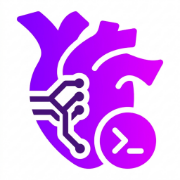
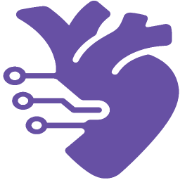
Updates

diff --git a/index.html b/index.html
@@ -7,7 +7,7 @@
     <link rel="icon" type="image/png" sizes="16x16" href="/favicon-16x16.png" />
     <meta name="viewport" content="width=device-width, initial-scale=1.0" />
     <title>فؤاد المهاوش</title>
-    <script type="module" crossorigin src="/assets/index-C1ZYpNLj.js"></script>
+    <script type="module" crossorigin src="/assets/index-DyzC2bNz.js"></script>
     <link rel="stylesheet" crossorigin href="/assets/index-CbxHaRg6.css">
   <link rel="manifest" href="/manifest.webmanifest"><script id="vite-plugin-pwa:inline-sw">if('serviceWorker' in navigator) {window.addEventListener('load', () => {navigator.serviceWorker.register('/sw.js', { scope: '/' })})}</script></head>
   <body>

diff --git a/sw.js b/sw.js
@@ -1,1 +1,1 @@
-if(!self.define){let e,i={};const n=(n,s)=>(n=new URL(n+".js",s).href,i[n]||new Promise(i=>{if("document"in self){const e=document.createElement("script");e.src=n,e.onload=i,document.head.appendChild(e)}else e=n,importScripts(n),i()}).then(()=>{let e=i[n];if(!e)throw new Error(`Module ${n} didn’t register its module`);return e}));self.define=(s,r)=>{const o=e||("document"in self?document.currentScript.src:"")||location.href;if(i[o])return;let c={};const a=e=>n(e,o),f={module:{uri:o},exports:c,require:a};i[o]=Promise.all(s.map(e=>f[e]||a(e))).then(e=>(r(...e),c))}}define(["./workbox-2fbc6a65"],function(e){"use strict";self.addEventListener("message",e=>{e.data&&"SKIP_WAITING"===e.data.type&&self.skipWaiting()}),e.precacheAndRoute([{url:"pwa-512x512.png",revision:"dc95552e0f92c601608c61b02bc5f0ac"},{url:"pwa-192x192.png",revision:"418be86621dbfbe121ea3f1de11c4434"},{url:"index.html",revision:"6fd8da66b99c5f2fbf0524899e80b41b"},{url:"icons.svg",revision:"21c7473c592c67dc87223d49892c8f0a"},{url:"favicon.svg",revision:"7e840862161341271697daa99a40d76b"},{url:"favicon.ico",revision:"9f6306599f5b180db2f370fb0aea4c3e"},{url:"favicon-32x32.png",revision:"cd0514e104fee269a9b7fe3784601780"},{url:"favicon-16x16.png",revision:"4eb0a3ba2186a4eb6b4872818153e60e"},{url:"apple-touch-icon.png",revision:"9149131d0ca9857ca6f90d77209da4a1"},{url:"assets/workbox-window.prod.es5-Bd17z0YL.js",revision:null},{url:"assets/index-CbxHaRg6.css",revision:null},{url:"assets/index-C1ZYpNLj.js",revision:null},{url:"apple-touch-icon.png",revision:"9149131d0ca9857ca6f90d77209da4a1"},{url:"favicon.ico",revision:"9f6306599f5b180db2f370fb0aea4c3e"},{url:"pwa-192x192.png",revision:"418be86621dbfbe121ea3f1de11c4434"},{url:"pwa-512x512.png",revision:"dc95552e0f92c601608c61b02bc5f0ac"},{url:"manifest.webmanifest",revision:"d548c2b31a19fb5b7d692b2c647cabd9"}],{}),e.cleanupOutdatedCaches(),e.registerRoute(new e.NavigationRoute(e.createHandlerBoundToURL("index.html")))});
+if(!self.define){let e,i={};const n=(n,r)=>(n=new URL(n+".js",r).href,i[n]||new Promise(i=>{if("document"in self){const e=document.createElement("script");e.src=n,e.onload=i,document.head.appendChild(e)}else e=n,importScripts(n),i()}).then(()=>{let e=i[n];if(!e)throw new Error(`Module ${n} didn’t register its module`);return e}));self.define=(r,c)=>{const o=e||("document"in self?document.currentScript.src:"")||location.href;if(i[o])return;let s={};const f=e=>n(e,o),d={module:{uri:o},exports:s,require:f};i[o]=Promise.all(r.map(e=>d[e]||f(e))).then(e=>(c(...e),s))}}define(["./workbox-9c191d2f"],function(e){"use strict";self.addEventListener("message",e=>{e.data&&"SKIP_WAITING"===e.data.type&&self.skipWaiting()}),e.clientsClaim(),e.precacheAndRoute([{url:"index.html",revision:"91883e60e95c440c2d7af29142f47945"},{url:"favicon.ico",revision:"b78e48a1e986628b4fcd7d11bc8b0410"},{url:"favicon-32x32.png",revision:"4002477cedbcd1c0c5d63bf51abdbd75"},{url:"favicon-16x16.png",revision:"ddfd7f39e5e89c2df1c882c62eab02b6"},{url:"apple-touch-icon.png",revision:"ac05f8ee8732bcc66f7f0ca14ad12cfa"},{url:"android-chrome-512x512.png",revision:"bb058d45d88f982b61bc7f4ef714cb67"},{url:"android-chrome-192x192.png",revision:"00513e55d0ffa13c2b8ef83662873fa4"},{url:"assets/workbox-window.prod.es5-Bd17z0YL.js",revision:null},{url:"assets/index-DyzC2bNz.js",revision:null},{url:"assets/index-CbxHaRg6.css",revision:null},{url:"android-chrome-192x192.png",revision:"00513e55d0ffa13c2b8ef83662873fa4"},{url:"android-chrome-512x512.png",revision:"bb058d45d88f982b61bc7f4ef714cb67"},{url:"apple-touch-icon.png",revision:"ac05f8ee8732bcc66f7f0ca14ad12cfa"},{url:"favicon.ico",revision:"b78e48a1e986628b4fcd7d11bc8b0410"},{url:"manifest.webmanifest",revision:"57b69efab552c180c9e25eb2d56f60f2"}],{}),e.cleanupOutdatedCaches(),e.registerRoute(new e.NavigationRoute(e.createHandlerBoundToURL("index.html")))});

diff --git a/workbox-9c191d2f.js b/workbox-9c191d2f.js
@@ -1,0 +1,1 @@
+define(["exports"],function(t){"use strict";try{self["workbox:core:7.4.0"]&&_()}catch(t){}const e=(t,...e)=>{let s=t;return e.length>0&&(s+=` :: ${JSON.stringify(e)}`),s};class s extends Error{constructor(t,s){super(e(t,s)),this.name=t,this.details=s}}try{self["workbox:routing:7.4.0"]&&_()}catch(t){}const n=t=>t&&"object"==typeof t?t:{handle:t};class i{constructor(t,e,s="GET"){this.handler=n(e),this.match=t,this.method=s}setCatchHandler(t){this.catchHandler=n(t)}}class r extends i{constructor(t,e,s){super(({url:e})=>{const s=t.exec(e.href);if(s&&(e.origin===location.origin||0===s.index))return s.slice(1)},e,s)}}class o{constructor(){this.t=new Map,this.i=new Map}get routes(){return this.t}addFetchListener(){self.addEventListener("fetch",t=>{const{request:e}=t,s=this.handleRequest({request:e,event:t});s&&t.respondWith(s)})}addCacheListener(){self.addEventListener("message",t=>{if(t.data&&"CACHE_URLS"===t.data.type){const{payload:e}=t.data,s=Promise.all(e.urlsToCache.map(e=>{"string"==typeof e&&(e=[e]);const s=new Request(...e);return this.handleRequest({request:s,event:t})}));t.waitUntil(s),t.ports&&t.ports[0]&&s.then(()=>t.ports[0].postMessage(!0))}})}handleRequest({request:t,event:e}){const s=new URL(t.url,location.href);if(!s.protocol.startsWith("http"))return;const n=s.origin===location.origin,{params:i,route:r}=this.findMatchingRoute({event:e,request:t,sameOrigin:n,url:s});let o=r&&r.handler;const c=t.method;if(!o&&this.i.has(c)&&(o=this.i.get(c)),!o)return;let a;try{a=o.handle({url:s,request:t,event:e,params:i})}catch(t){a=Promise.reject(t)}const h=r&&r.catchHandler;return a instanceof Promise&&(this.o||h)&&(a=a.catch(async n=>{if(h)try{return await h.handle({url:s,request:t,event:e,params:i})}catch(t){t instanceof Error&&(n=t)}if(this.o)return this.o.handle({url:s,request:t,event:e});throw n})),a}findMatchingRoute({url:t,sameOrigin:e,request:s,event:n}){const i=this.t.get(s.method)||[];for(const r of i){let i;const o=r.match({url:t,sameOrigin:e,request:s,event:n});if(o)return i=o,(Array.isArray(i)&&0===i.length||o.constructor===Object&&0===Object.keys(o).length||"boolean"==typeof o)&&(i=void 0),{route:r,params:i}}return{}}setDefaultHandler(t,e="GET"){this.i.set(e,n(t))}setCatchHandler(t){this.o=n(t)}registerRoute(t){this.t.has(t.method)||this.t.set(t.method,[]),this.t.get(t.method).push(t)}unregisterRoute(t){if(!this.t.has(t.method))throw new s("unregister-route-but-not-found-with-method",{method:t.method});const e=this.t.get(t.method).indexOf(t);if(!(e>-1))throw new s("unregister-route-route-not-registered");this.t.get(t.method).splice(e,1)}}let c;const a=()=>(c||(c=new o,c.addFetchListener(),c.addCacheListener()),c);function h(t,e,n){let o;if("string"==typeof t){const s=new URL(t,location.href);o=new i(({url:t})=>t.href===s.href,e,n)}else if(t instanceof RegExp)o=new r(t,e,n);else if("function"==typeof t)o=new i(t,e,n);else{if(!(t instanceof i))throw new s("unsupported-route-type",{moduleName:"workbox-routing",funcName:"registerRoute",paramName:"capture"});o=t}return a().registerRoute(o),o}const u={googleAnalytics:"googleAnalytics",precache:"precache-v2",prefix:"workbox",runtime:"runtime",suffix:"undefined"!=typeof registration?registration.scope:""},l=t=>[u.prefix,t,u.suffix].filter(t=>t&&t.length>0).join("-"),f=t=>t||l(u.precache),w=t=>t||l(u.runtime);function d(t,e){const s=e();return t.waitUntil(s),s}try{self["workbox:precaching:7.4.0"]&&_()}catch(t){}function p(t){if(!t)throw new s("add-to-cache-list-unexpected-type",{entry:t});if("string"==typeof t){const e=new URL(t,location.href);return{cacheKey:e.href,url:e.href}}const{revision:e,url:n}=t;if(!n)throw new s("add-to-cache-list-unexpected-type",{entry:t});if(!e){const t=new URL(n,location.href);return{cacheKey:t.href,url:t.href}}const i=new URL(n,location.href),r=new URL(n,location.href);return i.searchParams.set("__WB_REVISION__",e),{cacheKey:i.href,url:r.href}}class y{constructor(){this.updatedURLs=[],this.notUpdatedURLs=[],this.handlerWillStart=async({request:t,state:e})=>{e&&(e.originalRequest=t)},this.cachedResponseWillBeUsed=async({event:t,state:e,cachedResponse:s})=>{if("install"===t.type&&e&&e.originalRequest&&e.originalRequest instanceof Request){const t=e.originalRequest.url;s?this.notUpdatedURLs.push(t):this.updatedURLs.push(t)}return s}}}class g{constructor({precacheController:t}){this.cacheKeyWillBeUsed=async({request:t,params:e})=>{const s=(null==e?void 0:e.cacheKey)||this.h.getCacheKeyForURL(t.url);return s?new Request(s,{headers:t.headers}):t},this.h=t}}let R;async function m(t,e){let n=null;if(t.url){n=new URL(t.url).origin}if(n!==self.location.origin)throw new s("cross-origin-copy-response",{origin:n});const i=t.clone(),r={headers:new Headers(i.headers),status:i.status,statusText:i.statusText},o=function(){if(void 0===R){const t=new Response("");if("body"in t)try{new Response(t.body),R=!0}catch(t){R=!1}R=!1}return R}()?i.body:await i.blob();return new Response(o,r)}function v(t,e){const s=new URL(t);for(const t of e)s.searchParams.delete(t);return s.href}class q{constructor(){this.promise=new Promise((t,e)=>{this.resolve=t,this.reject=e})}}const U=new Set;try{self["workbox:strategies:7.4.0"]&&_()}catch(t){}function L(t){return"string"==typeof t?new Request(t):t}class b{constructor(t,e){this.u={},Object.assign(this,e),this.event=e.event,this.l=t,this.p=new q,this.R=[],this.m=[...t.plugins],this.v=new Map;for(const t of this.m)this.v.set(t,{});this.event.waitUntil(this.p.promise)}async fetch(t){const{event:e}=this;let n=L(t);if("navigate"===n.mode&&e instanceof FetchEvent&&e.preloadResponse){const t=await e.preloadResponse;if(t)return t}const i=this.hasCallback("fetchDidFail")?n.clone():null;try{for(const t of this.iterateCallbacks("requestWillFetch"))n=await t({request:n.clone(),event:e})}catch(t){if(t instanceof Error)throw new s("plugin-error-request-will-fetch",{thrownErrorMessage:t.message})}const r=n.clone();try{let t;t=await fetch(n,"navigate"===n.mode?void 0:this.l.fetchOptions);for(const s of this.iterateCallbacks("fetchDidSucceed"))t=await s({event:e,request:r,response:t});return t}catch(t){throw i&&await this.runCallbacks("fetchDidFail",{error:t,event:e,originalRequest:i.clone(),request:r.clone()}),t}}async fetchAndCachePut(t){const e=await this.fetch(t),s=e.clone();return this.waitUntil(this.cachePut(t,s)),e}async cacheMatch(t){const e=L(t);let s;const{cacheName:n,matchOptions:i}=this.l,r=await this.getCacheKey(e,"read"),o=Object.assign(Object.assign({},i),{cacheName:n});s=await caches.match(r,o);for(const t of this.iterateCallbacks("cachedResponseWillBeUsed"))s=await t({cacheName:n,matchOptions:i,cachedResponse:s,request:r,event:this.event})||void 0;return s}async cachePut(t,e){const n=L(t);var i;await(i=0,new Promise(t=>setTimeout(t,i)));const r=await this.getCacheKey(n,"write");if(!e)throw new s("cache-put-with-no-response",{url:(o=r.url,new URL(String(o),location.href).href.replace(new RegExp(`^${location.origin}`),""))});var o;const c=await this.q(e);if(!c)return!1;const{cacheName:a,matchOptions:h}=this.l,u=await self.caches.open(a),l=this.hasCallback("cacheDidUpdate"),f=l?await async function(t,e,s,n){const i=v(e.url,s);if(e.url===i)return t.match(e,n);const r=Object.assign(Object.assign({},n),{ignoreSearch:!0}),o=await t.keys(e,r);for(const e of o)if(i===v(e.url,s))return t.match(e,n)}(u,r.clone(),["__WB_REVISION__"],h):null;try{await u.put(r,l?c.clone():c)}catch(t){if(t instanceof Error)throw"QuotaExceededError"===t.name&&await async function(){for(const t of U)await t()}(),t}for(const t of this.iterateCallbacks("cacheDidUpdate"))await t({cacheName:a,oldResponse:f,newResponse:c.clone(),request:r,event:this.event});return!0}async getCacheKey(t,e){const s=`${t.url} | ${e}`;if(!this.u[s]){let n=t;for(const t of this.iterateCallbacks("cacheKeyWillBeUsed"))n=L(await t({mode:e,request:n,event:this.event,params:this.params}));this.u[s]=n}return this.u[s]}hasCallback(t){for(const e of this.l.plugins)if(t in e)return!0;return!1}async runCallbacks(t,e){for(const s of this.iterateCallbacks(t))await s(e)}*iterateCallbacks(t){for(const e of this.l.plugins)if("function"==typeof e[t]){const s=this.v.get(e),n=n=>{const i=Object.assign(Object.assign({},n),{state:s});return e[t](i)};yield n}}waitUntil(t){return this.R.push(t),t}async doneWaiting(){for(;this.R.length;){const t=this.R.splice(0),e=(await Promise.allSettled(t)).find(t=>"rejected"===t.status);if(e)throw e.reason}}destroy(){this.p.resolve(null)}async q(t){let e=t,s=!1;for(const t of this.iterateCallbacks("cacheWillUpdate"))if(e=await t({request:this.request,response:e,event:this.event})||void 0,s=!0,!e)break;return s||e&&200!==e.status&&(e=void 0),e}}class C{constructor(t={}){this.cacheName=w(t.cacheName),this.plugins=t.plugins||[],this.fetchOptions=t.fetchOptions,this.matchOptions=t.matchOptions}handle(t){const[e]=this.handleAll(t);return e}handleAll(t){t instanceof FetchEvent&&(t={event:t,request:t.request});const e=t.event,s="string"==typeof t.request?new Request(t.request):t.request,n="params"in t?t.params:void 0,i=new b(this,{event:e,request:s,params:n}),r=this.U(i,s,e);return[r,this.L(r,i,s,e)]}async U(t,e,n){let i;await t.runCallbacks("handlerWillStart",{event:n,request:e});try{if(i=await this._(e,t),!i||"error"===i.type)throw new s("no-response",{url:e.url})}catch(s){if(s instanceof Error)for(const r of t.iterateCallbacks("handlerDidError"))if(i=await r({error:s,event:n,request:e}),i)break;if(!i)throw s}for(const s of t.iterateCallbacks("handlerWillRespond"))i=await s({event:n,request:e,response:i});return i}async L(t,e,s,n){let i,r;try{i=await t}catch(r){}try{await e.runCallbacks("handlerDidRespond",{event:n,request:s,response:i}),await e.doneWaiting()}catch(t){t instanceof Error&&(r=t)}if(await e.runCallbacks("handlerDidComplete",{event:n,request:s,response:i,error:r}),e.destroy(),r)throw r}}class E extends C{constructor(t={}){t.cacheName=f(t.cacheName),super(t),this.C=!1!==t.fallbackToNetwork,this.plugins.push(E.copyRedirectedCacheableResponsesPlugin)}async _(t,e){const s=await e.cacheMatch(t);return s||(e.event&&"install"===e.event.type?await this.O(t,e):await this.N(t,e))}async N(t,e){let n;const i=e.params||{};if(!this.C)throw new s("missing-precache-entry",{cacheName:this.cacheName,url:t.url});{const s=i.integrity,r=t.integrity,o=!r||r===s;n=await e.fetch(new Request(t,{integrity:"no-cors"!==t.mode?r||s:void 0})),s&&o&&"no-cors"!==t.mode&&(this.P(),await e.cachePut(t,n.clone()))}return n}async O(t,e){this.P();const n=await e.fetch(t);if(!await e.cachePut(t,n.clone()))throw new s("bad-precaching-response",{url:t.url,status:n.status});return n}P(){let t=null,e=0;for(const[s,n]of this.plugins.entries())n!==E.copyRedirectedCacheableResponsesPlugin&&(n===E.defaultPrecacheCacheabilityPlugin&&(t=s),n.cacheWillUpdate&&e++);0===e?this.plugins.push(E.defaultPrecacheCacheabilityPlugin):e>1&&null!==t&&this.plugins.splice(t,1)}}E.defaultPrecacheCacheabilityPlugin={cacheWillUpdate:async({response:t})=>!t||t.status>=400?null:t},E.copyRedirectedCacheableResponsesPlugin={cacheWillUpdate:async({response:t})=>t.redirected?await m(t):t};class O{constructor({cacheName:t,plugins:e=[],fallbackToNetwork:s=!0}={}){this.j=new Map,this.k=new Map,this.K=new Map,this.l=new E({cacheName:f(t),plugins:[...e,new g({precacheController:this})],fallbackToNetwork:s}),this.install=this.install.bind(this),this.activate=this.activate.bind(this)}get strategy(){return this.l}precache(t){this.addToCacheList(t),this.T||(self.addEventListener("install",this.install),self.addEventListener("activate",this.activate),this.T=!0)}addToCacheList(t){const e=[];for(const n of t){"string"==typeof n?e.push(n):n&&void 0===n.revision&&e.push(n.url);const{cacheKey:t,url:i}=p(n),r="string"!=typeof n&&n.revision?"reload":"default";if(this.j.has(i)&&this.j.get(i)!==t)throw new s("add-to-cache-list-conflicting-entries",{firstEntry:this.j.get(i),secondEntry:t});if("string"!=typeof n&&n.integrity){if(this.K.has(t)&&this.K.get(t)!==n.integrity)throw new s("add-to-cache-list-conflicting-integrities",{url:i});this.K.set(t,n.integrity)}if(this.j.set(i,t),this.k.set(i,r),e.length>0){const t=`Workbox is precaching URLs without revision info: ${e.join(", ")}\nThis is generally NOT safe. Learn more at https://bit.ly/wb-precache`;console.warn(t)}}}install(t){return d(t,async()=>{const e=new y;this.strategy.plugins.push(e);for(const[e,s]of this.j){const n=this.K.get(s),i=this.k.get(e),r=new Request(e,{integrity:n,cache:i,credentials:"same-origin"});await Promise.all(this.strategy.handleAll({params:{cacheKey:s},request:r,event:t}))}const{updatedURLs:s,notUpdatedURLs:n}=e;return{updatedURLs:s,notUpdatedURLs:n}})}activate(t){return d(t,async()=>{const t=await self.caches.open(this.strategy.cacheName),e=await t.keys(),s=new Set(this.j.values()),n=[];for(const i of e)s.has(i.url)||(await t.delete(i),n.push(i.url));return{deletedURLs:n}})}getURLsToCacheKeys(){return this.j}getCachedURLs(){return[...this.j.keys()]}getCacheKeyForURL(t){const e=new URL(t,location.href);return this.j.get(e.href)}getIntegrityForCacheKey(t){return this.K.get(t)}async matchPrecache(t){const e=t instanceof Request?t.url:t,s=this.getCacheKeyForURL(e);if(s){return(await self.caches.open(this.strategy.cacheName)).match(s)}}createHandlerBoundToURL(t){const e=this.getCacheKeyForURL(t);if(!e)throw new s("non-precached-url",{url:t});return s=>(s.request=new Request(t),s.params=Object.assign({cacheKey:e},s.params),this.strategy.handle(s))}}let x;const N=()=>(x||(x=new O),x);class P extends i{constructor(t,e){super(({request:s})=>{const n=t.getURLsToCacheKeys();for(const i of function*(t,{ignoreURLParametersMatching:e=[/^utm_/,/^fbclid$/],directoryIndex:s="index.html",cleanURLs:n=!0,urlManipulation:i}={}){const r=new URL(t,location.href);r.hash="",yield r.href;const o=function(t,e=[]){for(const s of[...t.searchParams.keys()])e.some(t=>t.test(s))&&t.searchParams.delete(s);return t}(r,e);if(yield o.href,s&&o.pathname.endsWith("/")){const t=new URL(o.href);t.pathname+=s,yield t.href}if(n){const t=new URL(o.href);t.pathname+=".html",yield t.href}if(i){const t=i({url:r});for(const e of t)yield e.href}}(s.url,e)){const e=n.get(i);if(e){return{cacheKey:e,integrity:t.getIntegrityForCacheKey(e)}}}},t.strategy)}}t.NavigationRoute=class extends i{constructor(t,{allowlist:e=[/./],denylist:s=[]}={}){super(t=>this.W(t),t),this.M=e,this.S=s}W({url:t,request:e}){if(e&&"navigate"!==e.mode)return!1;const s=t.pathname+t.search;for(const t of this.S)if(t.test(s))return!1;return!!this.M.some(t=>t.test(s))}},t.cleanupOutdatedCaches=function(){self.addEventListener("activate",t=>{const e=f();t.waitUntil((async(t,e="-precache-")=>{const s=(await self.caches.keys()).filter(s=>s.includes(e)&&s.includes(self.registration.scope)&&s!==t);return await Promise.all(s.map(t=>self.caches.delete(t))),s})(e).then(t=>{}))})},t.clientsClaim=function(){self.addEventListener("activate",()=>self.clients.claim())},t.createHandlerBoundToURL=function(t){return N().createHandlerBoundToURL(t)},t.precacheAndRoute=function(t,e){!function(t){N().precache(t)}(t),function(t){const e=N();h(new P(e,t))}(e)},t.registerRoute=h});